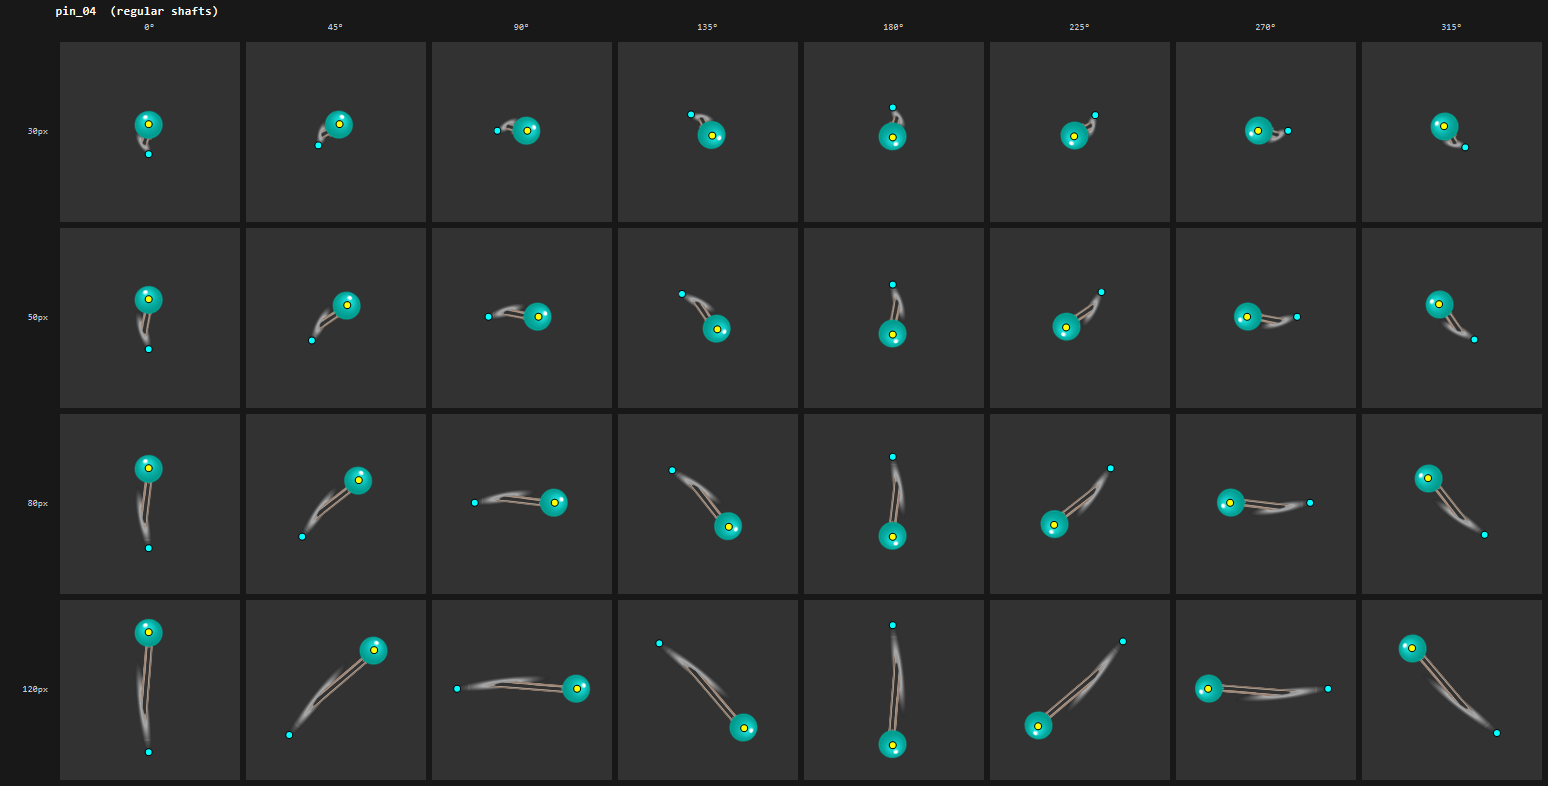
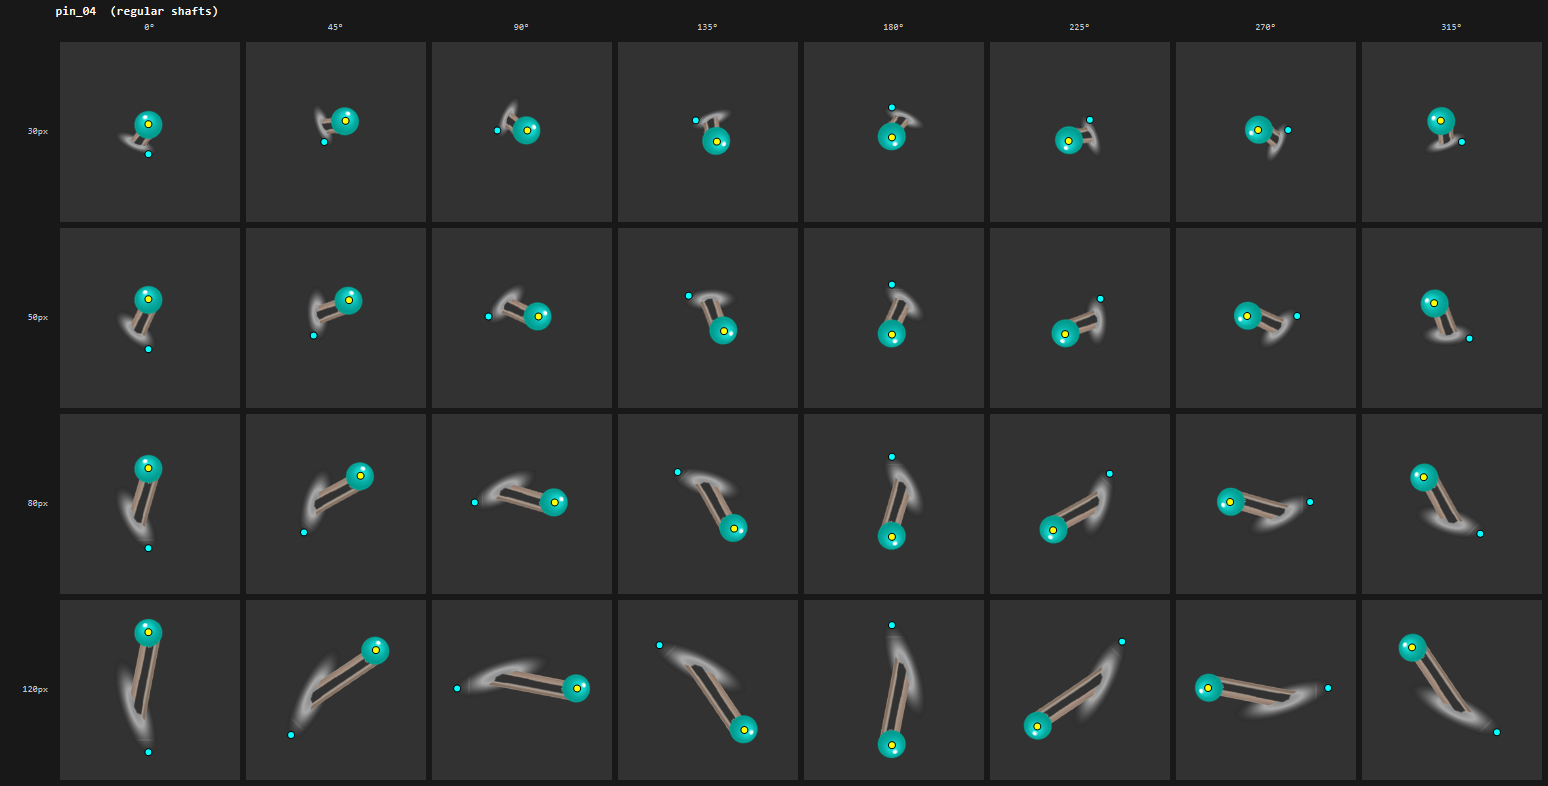
pretty good

diff --git a/Tools/PinDebugger/Program.cs b/Tools/PinDebugger/Program.cs
@@ -449,9 +449,11 @@ static void FitAxis(JsonElement pin, string pinId, string partsDir, string clean
 // ── Measure-shaft mode ────────────────────────────────────────────────────────
 
 /// <summary>
-/// Measures native shaft half-width: the 95th-percentile perpendicular distance
-/// from the axis to all opaque shaft pixels.  Uses cleaned image if available.
-/// Outputs a JSON patch line with native_shaft_half_width_px.
+/// Measures native shaft half-width: the median perpendicular distance from the axis
+/// to opaque pixels that lie within the stretchable body region (stretchStartDistance
+/// to stretchEndDistance along the axis).  Restricting to the body avoids the wide
+/// collar/shoulder at the head end inflating the measurement.
+/// Uses cleaned image if available.
 /// </summary>
 static void MeasureShaft(JsonElement pin, string pinId, string partsDir, string cleanedDir)
 {
@@ -459,6 +461,9 @@ static void MeasureShaft(JsonElement pin, string pinId, string partsDir, string 
     var shaft    = pin.GetProperty("shaft");
     var tip      = ParsePoint(shaft.GetProperty("local_tip"));
     var join     = ParsePoint(shaft.GetProperty("local_join"));
+    var seg      = shaft.GetProperty("segmentation");
+    double strStart = seg.GetProperty("stretch_start_distance").GetDouble();
+    double strEnd   = seg.GetProperty("stretch_end_distance").GetDouble();
 
     // Native axis unit and its left normal
     float aDx = join.X - tip.X, aDy = join.Y - tip.Y;
@@ -482,31 +487,33 @@ static void MeasureShaft(JsonElement pin, string pinId, string partsDir, string 
     Marshal.Copy(bmpData.Scan0, pixels, 0, pixels.Length);
     bmp.UnlockBits(bmpData);
 
-    // Collect absolute perpendicular distances for all opaque pixels
+    // Collect perpendicular distances only for pixels in the body region
     var dists = new List<float>(w * h / 4);
+    int bodyCount = 0;
     for (int py = 0; py < h; py++)
     for (int px = 0; px < w; px++)
     {
         if (pixels[py * stride + px * 4 + 3] < 10) continue;
         float dx   = px - tip.X, dy = py - tip.Y;
-        float perp = MathF.Abs(dx * nNx + dy * nNy);
-        dists.Add(perp);
+        float axial = dx * aDx + dy * aDy;           // projection onto axis
+        if (axial < (float)strStart || axial > (float)strEnd) continue;  // outside body
+        bodyCount++;
+        dists.Add(MathF.Abs(dx * nNx + dy * nNy));  // perpendicular distance
     }
 
-    if (dists.Count == 0) { Console.WriteLine($"  {pinId}: no opaque pixels"); return; }
+    if (dists.Count == 0) { Console.WriteLine($"  {pinId}: no body-region pixels"); return; }
 
     dists.Sort();
-    // 95th percentile: avoids stray antialiasing outliers
-    int p95idx   = (int)(dists.Count * 0.95);
-    float halfW  = dists[Math.Min(p95idx, dists.Count - 1)];
+    // Median: robust against shadow blobs or highlight pixels that stray wide
+    float halfW = dists[dists.Count / 2];
 
     double curVal = shaft.TryGetProperty("native_shaft_half_width_px", out var cur)
                     ? cur.GetDouble() : 0.0;
     bool changed = Math.Abs(halfW - curVal) > 0.5;
 
-    Console.WriteLine($"  {pinId}  [{srcLabel}]  img={w}x{h}  pixels={dists.Count}");
+    Console.WriteLine($"  {pinId}  [{srcLabel}]  img={w}x{h}  body_pixels={bodyCount}");
     Console.WriteLine($"    current  native_shaft_half_width_px : {curVal:F1}");
-    Console.WriteLine($"    measured (95th pct perp dist)       : {halfW:F1}{(changed ? "  ← CHANGED" : "")}");
+    Console.WriteLine($"    measured (body-region median perp)  : {halfW:F1}{(changed ? "  ← CHANGED" : "")}");
     if (changed)
         Console.WriteLine($"    JSON patch: \"native_shaft_half_width_px\": {halfW:F1}");
     Console.WriteLine();
